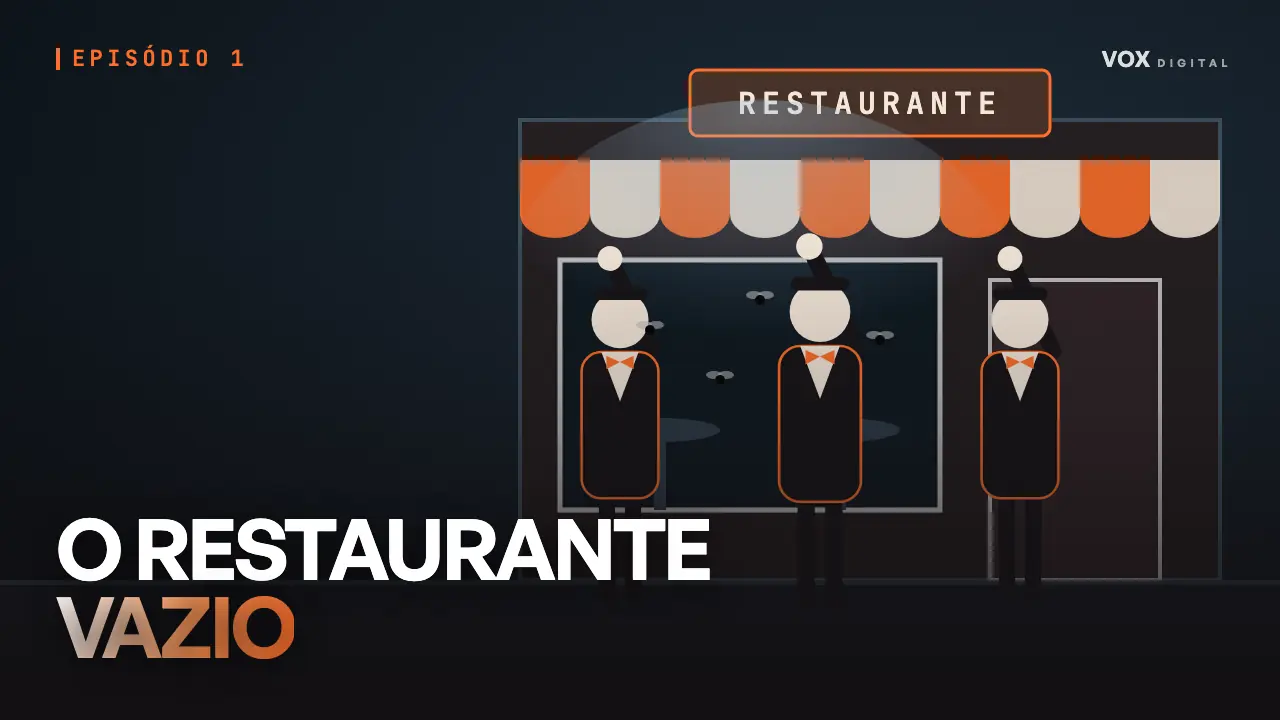
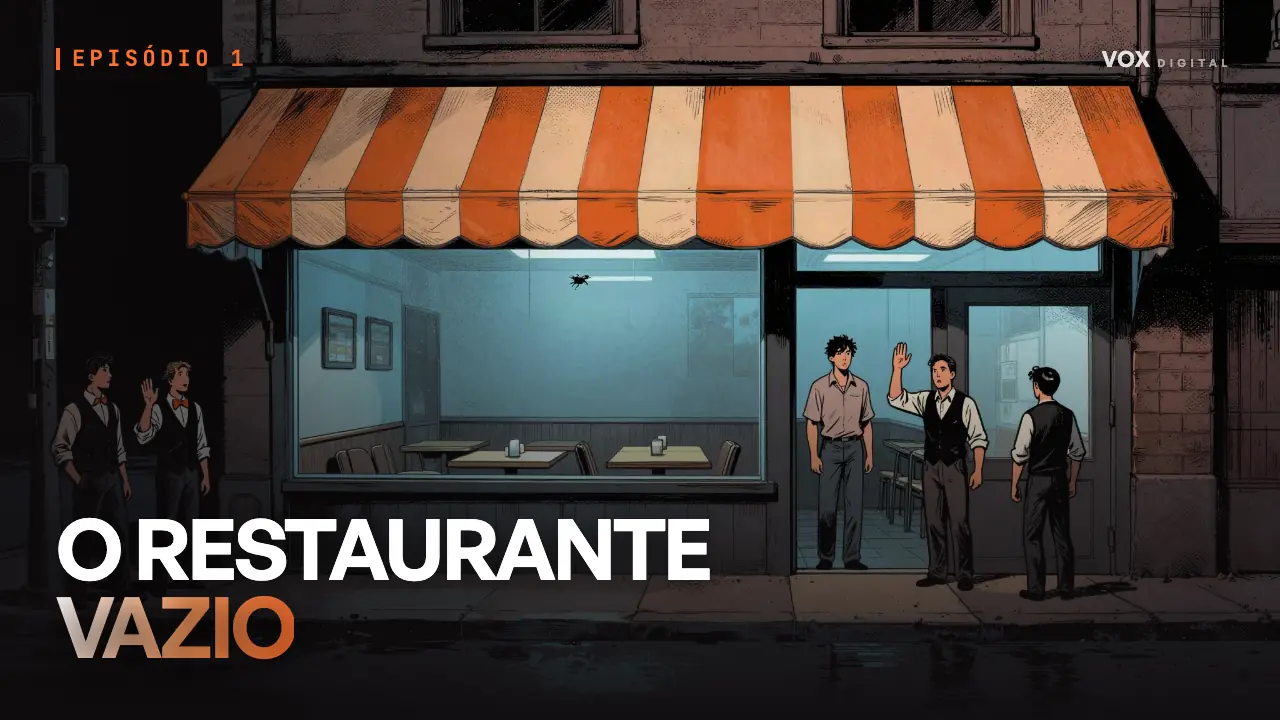
Série: capas dos episódios no estilo de quadrinho do fundo

diff --git a/serie/index.html b/serie/index.html
@@ -376,11 +376,11 @@ const CONFIG = {
     corpo: { x: 0.6, y: 0.5, rx: 0.24, ry: 0.5 }, quadril: { x: 0.66, y: 0.95 }
   },
   episodios: [
-    { titulo: "O restaurante vazio", dur: "", src: "", thumb: "assets/ep1.webp", horizontal: true,
+    { titulo: "O restaurante vazio", dur: "", src: "", thumb: "assets/ep1.webp?v=2", horizontal: true,
       sinopse: "O salão está vazio e o dono contrata três garçons para chamar gente na calçada. Parece absurdo. É exatamente o que quase todo dono de produto bom faz quando a venda trava." },
-    { titulo: "O que o seu cliente enxerga", dur: "", src: "", thumb: "assets/ep2.webp", horizontal: true,
+    { titulo: "O que o seu cliente enxerga", dur: "", src: "", thumb: "assets/ep2.webp?v=2", horizontal: true,
       sinopse: "Seu cliente abre a sua página ao lado de outras cinco e decide em segundos. Se ele não enxerga a diferença, sobra o preço. E o seu produto bom vira só mais uma opção." },
-    { titulo: "O ponto cego", dur: "", src: "", thumb: "assets/ep3.webp", horizontal: true,
+    { titulo: "O ponto cego", dur: "", src: "", thumb: "assets/ep3.webp?v=2", horizontal: true,
       sinopse: "Existe uma distância entre o que o seu produto entrega e o que o cliente vê antes de comprar. Três perguntas mostram se o seu está nela. Aqui a história deixa de ser sobre o restaurante." }
   ]
 };
